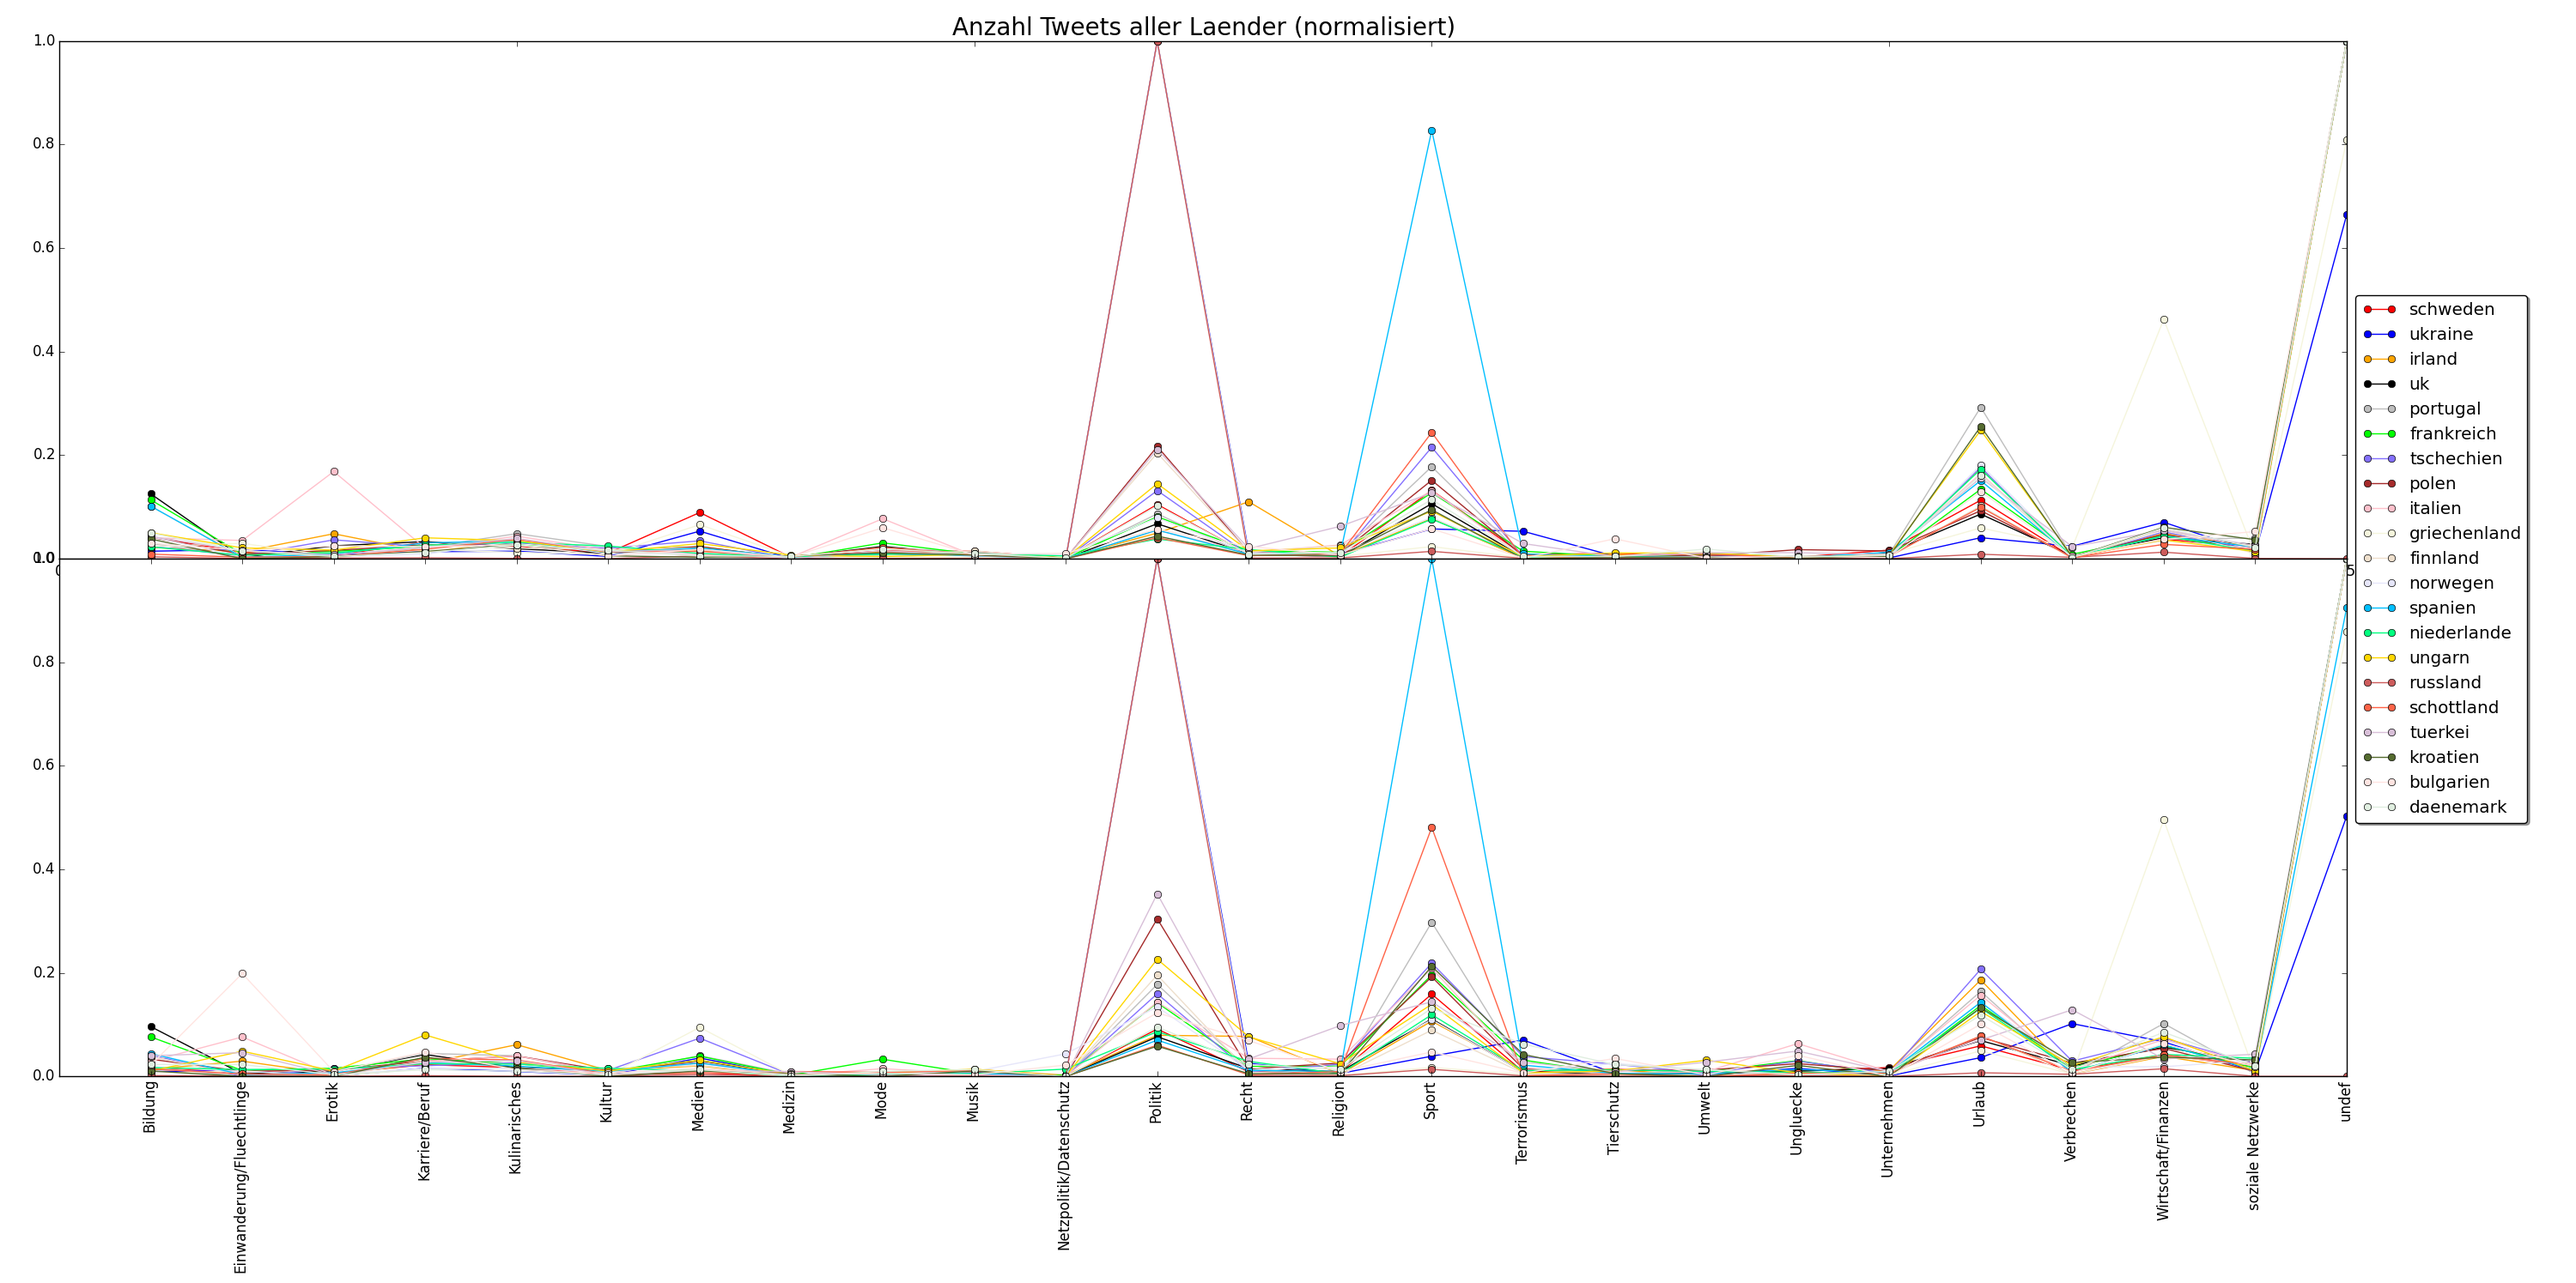
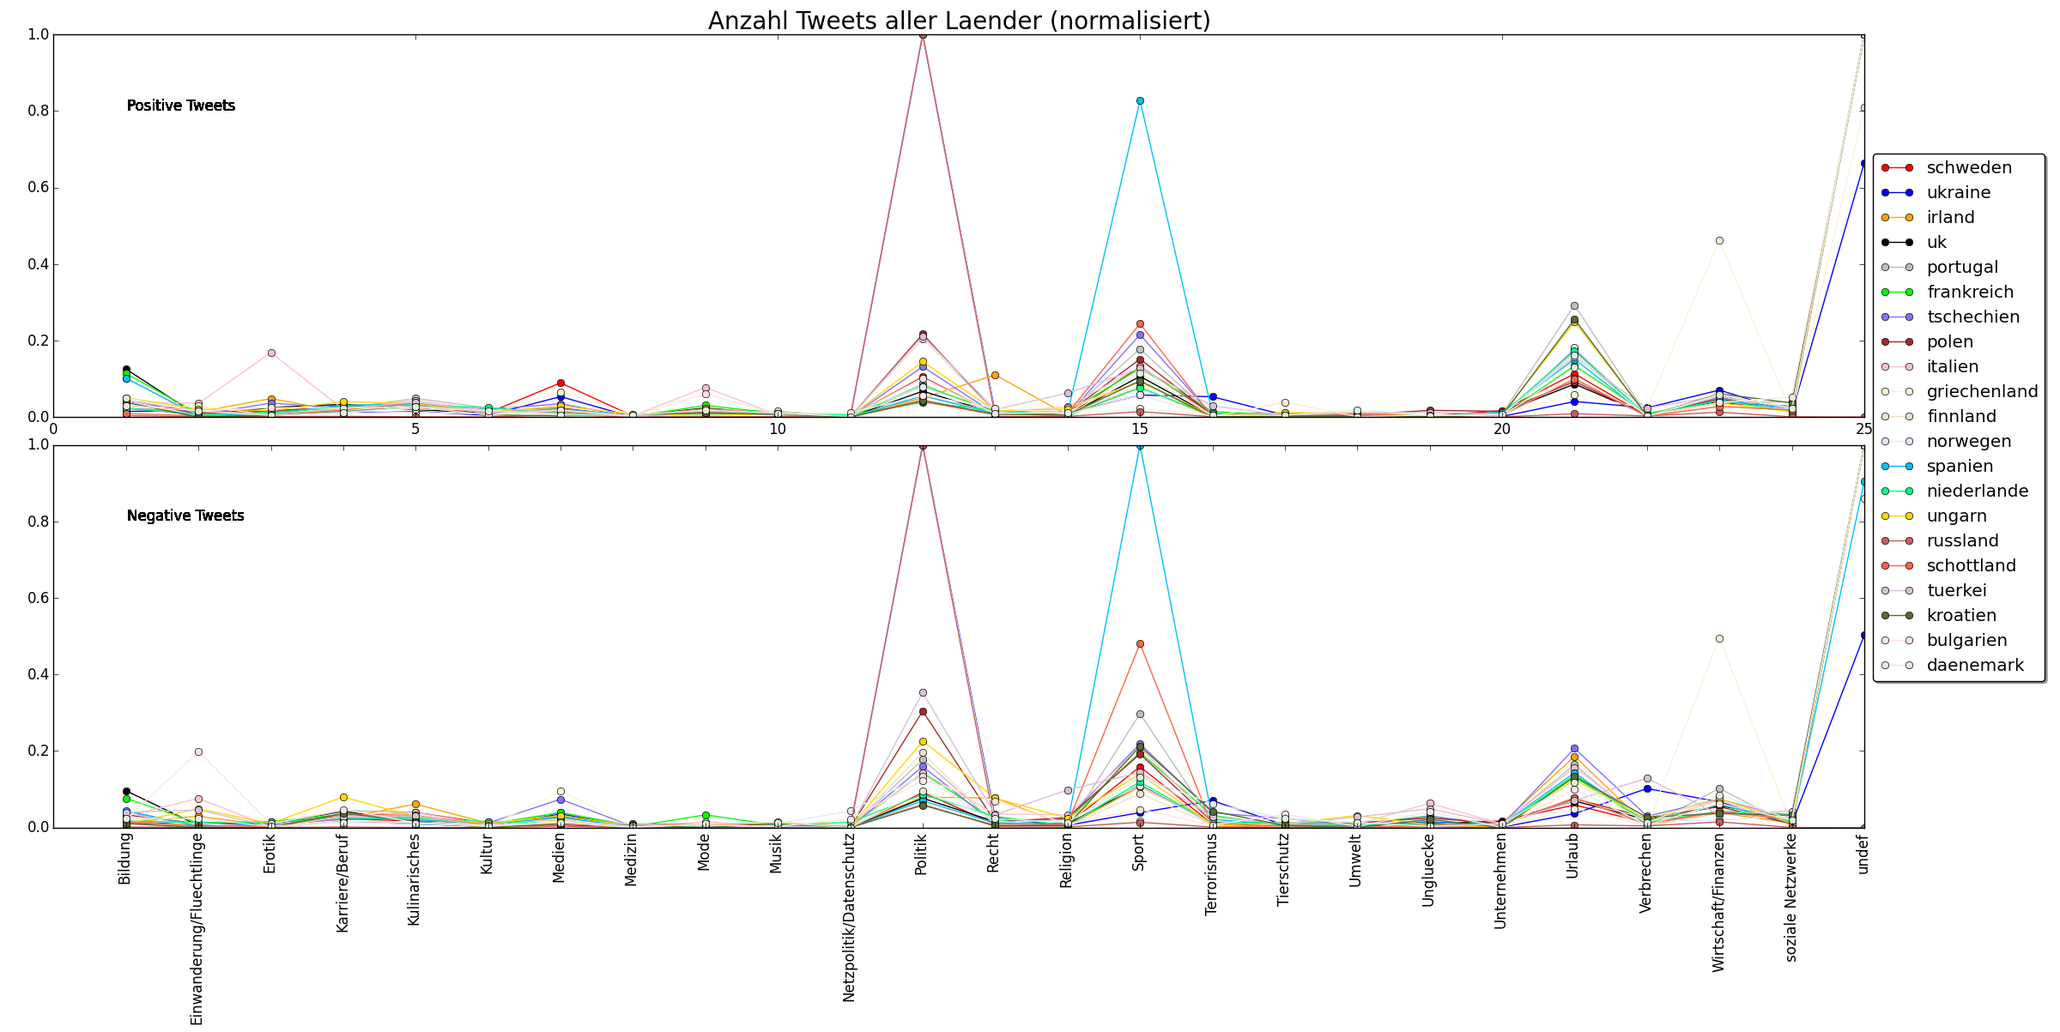
Last Graphic

diff --git a/visualization/visual.py b/visualization/visual.py
@@ -31,7 +31,7 @@ for line in readfile:
 
 #print countries
 #print topics
-            
+
 ### Dictionaries
 dict_all = {}
 dict_pos = {}
@@ -103,6 +103,9 @@ for i in dict_pos.keys():
     max(list(dict_pos[i]))), color[index], linestyle = '-', marker = 'o',\
              markersize = 6.0)
     index += 1
+    ax1.annotate('Positive Tweets', xy=(1, 0.8),  xycoords='data',
+                xytext=(1, 1), textcoords='offset points',
+                )
 #plt.legend(['Positive Opinion'])
 ax2 = fig.add_subplot(212)
 index = 0
@@ -112,6 +115,9 @@ for i in dict_neg.keys():
     max(list(dict_neg[i]))), color[index], linestyle = '-', marker = 'o',\
              markersize = 6.0)
     index += 1
+    ax2.annotate('Negative Tweets', xy=(1, 0.8),  xycoords='data',
+                xytext=(1, 1), textcoords='offset points',
+                )
 my_xticks = topics
 plt.xticks(x, my_xticks, rotation = 90)
 #ax2.legend(['Negative Opinion'])
